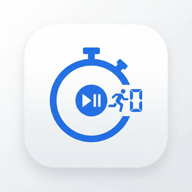
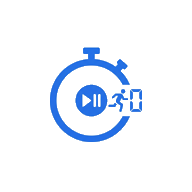
feat(store): icônes sans ombre, bannière et captures pour Play Store
- Suppression des ombres sur pwa-512x512, pwa-192x192, pwa-2048x2048
  (conformité specs Google Play pour l'icône)
- Ajout store-feature-graphic.html : générateur bannière 1024×500
- Ajout chrono-eps-feature-graphic-1024x500.png
- Mise à jour PUBLISHING_STORES.md (image de présentation, feature graphic)

diff --git a/public/store-feature-graphic.html b/public/store-feature-graphic.html
@@ -1,0 +1,130 @@
+<!DOCTYPE html>
+<html lang="fr">
+  <head>
+    <meta charset="UTF-8" />
+    <title>Chrono EPS - Bannière Play Store</title>
+    <style>
+      * {
+        margin: 0;
+        padding: 0;
+        box-sizing: border-box;
+      }
+      body {
+        font-family: system-ui, -apple-system, BlinkMacSystemFont, 'Segoe UI',
+          sans-serif;
+        background: #1e293b;
+        padding: 2rem;
+        min-height: 100vh;
+        display: flex;
+        flex-direction: column;
+        align-items: center;
+        gap: 1.5rem;
+      }
+      .banner {
+        width: 1024px;
+        height: 500px;
+        background: linear-gradient(135deg, #2563eb 0%, #1d4ed8 100%);
+        border-radius: 8px;
+        display: flex;
+        align-items: center;
+        justify-content: center;
+        gap: 2.5rem;
+        padding: 3rem;
+        box-shadow: 0 25px 50px -12px rgba(0, 0, 0, 0.25);
+      }
+      .banner-icon {
+        width: 200px;
+        height: 200px;
+        flex-shrink: 0;
+        background: white;
+        border-radius: 24px;
+        padding: 24px;
+        display: flex;
+        align-items: center;
+        justify-content: center;
+      }
+      .banner-icon img {
+        width: 100%;
+        height: 100%;
+        object-fit: contain;
+      }
+      .banner-text {
+        color: white;
+      }
+      .banner-title {
+        font-size: 3.5rem;
+        font-weight: 700;
+        letter-spacing: -0.02em;
+        line-height: 1.1;
+        margin-bottom: 0.5rem;
+      }
+      .banner-tagline {
+        font-size: 1.5rem;
+        font-weight: 500;
+        opacity: 0.95;
+        max-width: 420px;
+      }
+      .instructions {
+        color: #94a3b8;
+        font-size: 0.9rem;
+        text-align: center;
+      }
+      .btn {
+        background: #2563eb;
+        color: white;
+        border: none;
+        padding: 0.75rem 1.5rem;
+        font-size: 1rem;
+        font-weight: 500;
+        border-radius: 8px;
+        cursor: pointer;
+      }
+      .btn:hover {
+        background: #1d4ed8;
+      }
+    </style>
+  </head>
+  <body>
+    <div id="banner" class="banner">
+      <div class="banner-icon">
+        <img src="pwa-512x512.png" alt="Chrono EPS" />
+      </div>
+      <div class="banner-text">
+        <h1 class="banner-title">Chrono EPS</h1>
+        <p class="banner-tagline">
+          Chronomètre multi-élèves pour les enseignants d'EPS
+        </p>
+      </div>
+    </div>
+    <p class="instructions">
+      Cliquez sur le bouton pour télécharger l'image (1024×500 px)
+    </p>
+    <button class="btn" id="downloadBtn">Télécharger l'image PNG</button>
+
+    <script src="https://cdnjs.cloudflare.com/ajax/libs/html2canvas/1.4.1/html2canvas.min.js"></script>
+    <script>
+      document.getElementById('downloadBtn').addEventListener('click', async () => {
+        const banner = document.getElementById('banner')
+        const btn = document.getElementById('downloadBtn')
+        btn.disabled = true
+        btn.textContent = 'Génération…'
+        try {
+          const canvas = await html2canvas(banner, {
+            scale: 1,
+            useCORS: true,
+            allowTaint: true,
+            backgroundColor: null,
+            logging: false
+          })
+          const link = document.createElement('a')
+          link.download = 'chrono-eps-feature-graphic-1024x500.png'
+          link.href = canvas.toDataURL('image/png')
+          link.click()
+        } finally {
+          btn.disabled = false
+          btn.textContent = 'Télécharger l\'image PNG'
+        }
+      })
+    </script>
+  </body>
+</html>

diff --git a/docs/PUBLISHING_STORES.md b/docs/PUBLISHING_STORES.md
@@ -99,6 +99,7 @@ Apple peut refuser les apps qui ressemblent à de simples « sites web dans une 
 |---------|-------------|
 | Captures d'écran | Plusieurs tailles (téléphone, tablette) — cf. specs de chaque store |
 | Icône 512×512 | Déjà présente dans le projet (`public/pwa-512x512.png`) |
+| Image de présentation (1024×500) | Générer via `public/store-feature-graphic.html` : ouvrir dans un navigateur, cliquer « Télécharger l'image PNG » |
 | Description courte | Ex. : « Chronomètre multi-élèves pour les enseignants d'EPS » |
 | Description longue | Détail des fonctionnalités (chrono, passages, historique, hors ligne) |
 | Politique de confidentialité | URL : `https://plamarque.github.io/chrono-eps/privacy.html` — Chrono EPS stocke les données localement ; l'absence de collecte serveur y est détaillée |
